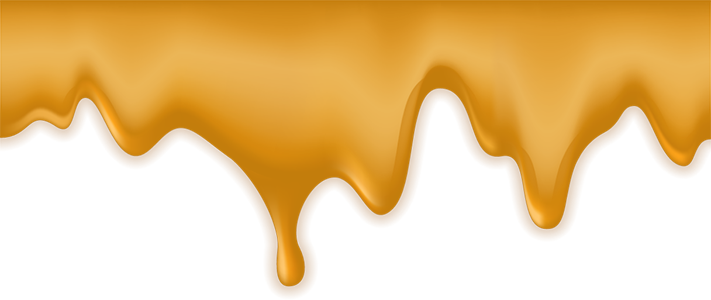
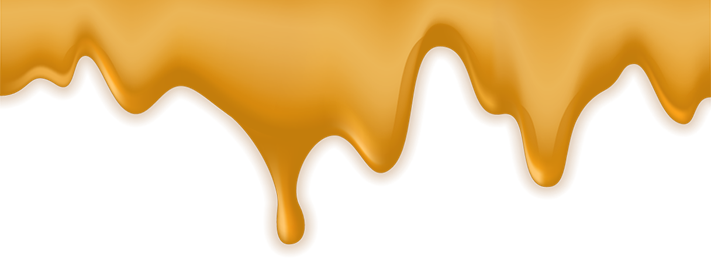
less honey and formatting

diff --git a/new.html b/new.html
@@ -105,10 +105,10 @@ h1.brother {
 	color: #5e2f00;
 	font-size: 125px;
 }
-    .custom-container {
-        max-width: 900px;
-        margin: 0 auto;
-    }
+.custom-container {
+	max-width: 900px;
+	margin: 0 auto;
+}
 .page {
 	background: #f9cf01;
 	background: -webkit-radial-gradient(center, ellipse cover, #f9cf01 60%, #e08f00 100%);
@@ -116,7 +116,6 @@ h1.brother {
 }
 .honeycomb {
 	background: transparent url("honeycomb.png") top center repeat;
-
 }
 .honey-drip {
 	background: transparent url("honey.png") top center repeat-x;
@@ -128,9 +127,12 @@ h1.brother {
 	padding: 60px 0;
 }
 .item {
-    padding: 0 10px;
+	padding: 0 10px;
 }
-    .bee-wrapper {
+.item > h1 {
+	padding-top: 60px;
+}
+.bee-wrapper {
 	display: flex;
 	justify-content: space-between;
 	padding: 60px 0;
@@ -370,7 +372,7 @@ height="0" width="0" style="display:none;visibility:hidden"></iframe>
           <div class="item-wrapper">
             <div class="item"><img src="alone.png" alt=""></div>
             <div class="item">
-              <h1 class="brother text-nowrap">Oh, Honey!</h1>
+              <h1 class="brother no-margin text-nowrap">Oh, Honey!</h1>
             </div>
             <div class="item"><img src="together.png" alt=""></div>
           </div>
@@ -382,10 +384,9 @@ height="0" width="0" style="display:none;visibility:hidden"></iframe>
             Summer Camp</a><a href="https://douglascountylibraries.evanced.info/signup/list?nomobile=1&ag=&kw=coffee+chat+tuesday&lib=ALL&nd=90" target="_blank" class="link">Join the<br>
             Coffee Chat</a></div>
         </div>
-                  <div class="custom-container">
+        <div class="custom-container">
           <div class="bee-wrapper">
             <div class="bee"><img src="nothing.png" alt=""></div>
-
             <div class="bee"><img src="helen.png" alt=""></div>
           </div>
         </div>
